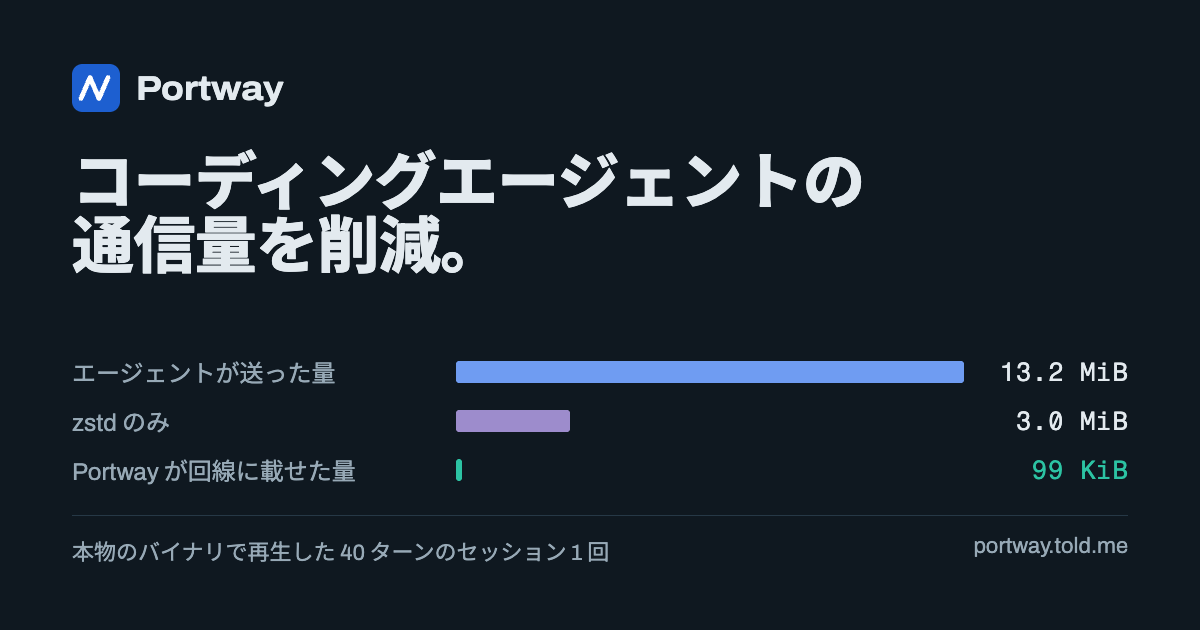
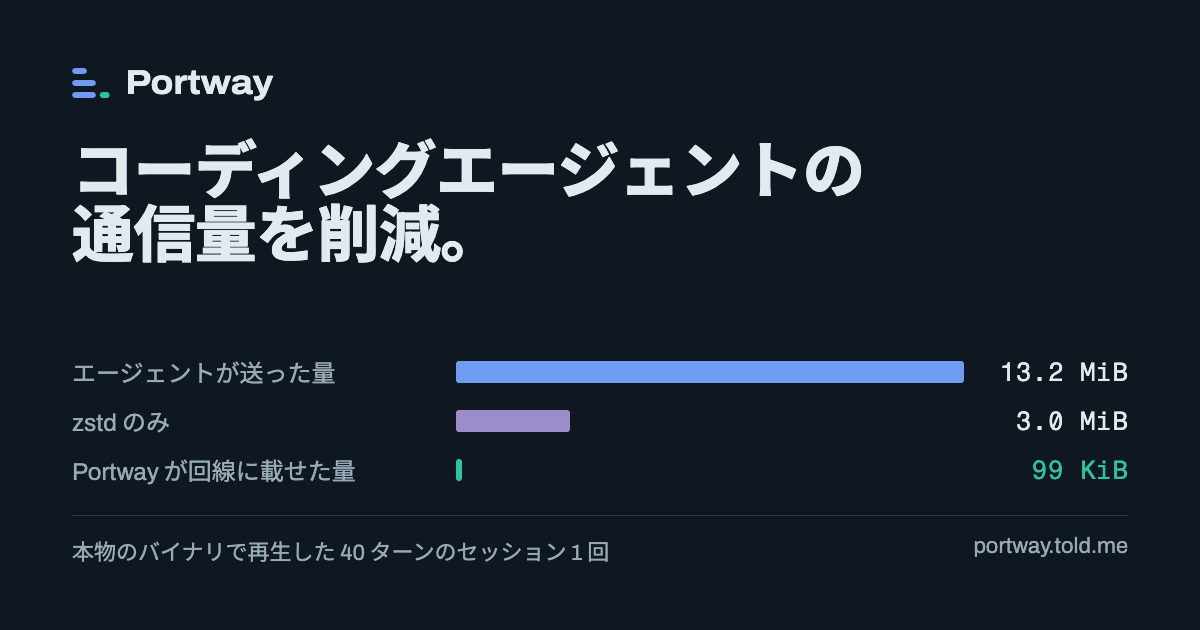
feat(brand): replace the zigzag mark with growing bars
- Draw the mark as three bars that grow turn by turn, the newest with a wire-coloured tip for the only part that crosses
- Redraw both console favicons and the site favicon on the site's ground colour, with the alert dot in the dark theme's red
- Swap the mark into the console header and the site masthead in all four languages and on the 404 page, coloured with the raw and wire tokens
- Update the four social card sources and re-render og.png, og-ko.png, og-ja.png and og-zh.png
- Re-render apple-touch-icon.png, refresh the stylesheet hash and the sitemap dates, and record the change in the changelog

Changed region(s): [[0.0617, 0.2111, 0.74, 0.4524], [0.0617, 0.0905, 0.2467, 0.181]]

diff --git a/scripts/og-card-ko.html b/scripts/og-card-ko.html
@@ -26,7 +26,9 @@
     display: flex; flex-direction: column;
   }
   .brand { display: flex; align-items: center; gap: 16px; font-size: 34px; font-weight: 700; font-stretch: 110%; }
-  .brand svg { width: 48px; height: 48px; }
+  .brand svg { width: 37.5px; height: 30px; }
+  .brand path { fill: none; stroke: var(--raw); stroke-width: 4; stroke-linecap: round; }
+  .brand .delta { stroke: var(--wire); }
   h1 {
     margin: 40px 0 0; font-size: 62px; line-height: 1.04; font-weight: 800;
     font-stretch: 88%; letter-spacing: -0.01em; max-width: 24ch;
@@ -46,7 +48,7 @@
 </head>
 <body>
   <div class="brand">
-    <svg viewBox="0 0 32 32" aria-hidden="true"><rect width="32" height="32" rx="7" fill="#1d5fd0"/><path d="M6 23 L12 9 L18 23 L24 9" fill="none" stroke="#fff" stroke-width="3.2" stroke-linecap="round" stroke-linejoin="round"/></svg>
+    <svg viewBox="3.5 6 25 20" aria-hidden="true"><path d="M5.5 8H11.5M5.5 16H17.5M5.5 24H17.5"/><path class="delta" d="M24 24H26.5"/></svg>
     Portway
   </div>
   <h1><span>코딩 에이전트의</span> <span>네트워크 전송량을</span> <span>줄이세요.</span></h1>

diff --git a/scripts/og-card-ja.html b/scripts/og-card-ja.html
@@ -26,7 +26,9 @@
     display: flex; flex-direction: column;
   }
   .brand { display: flex; align-items: center; gap: 16px; font-size: 34px; font-weight: 700; font-stretch: 110%; }
-  .brand svg { width: 48px; height: 48px; }
+  .brand svg { width: 37.5px; height: 30px; }
+  .brand path { fill: none; stroke: var(--raw); stroke-width: 4; stroke-linecap: round; }
+  .brand .delta { stroke: var(--wire); }
   h1 {
     margin: 40px 0 0; font-size: 62px; line-height: 1.04; font-weight: 800;
     font-stretch: 88%; letter-spacing: -0.01em; max-width: 24ch;
@@ -45,7 +47,7 @@
 </head>
 <body>
   <div class="brand">
-    <svg viewBox="0 0 32 32" aria-hidden="true"><rect width="32" height="32" rx="7" fill="#1d5fd0"/><path d="M6 23 L12 9 L18 23 L24 9" fill="none" stroke="#fff" stroke-width="3.2" stroke-linecap="round" stroke-linejoin="round"/></svg>
+    <svg viewBox="3.5 6 25 20" aria-hidden="true"><path d="M5.5 8H11.5M5.5 16H17.5M5.5 24H17.5"/><path class="delta" d="M24 24H26.5"/></svg>
     Portway
   </div>
   <h1><span>コーディング</span><span>エージェントの</span><span>通信量を削減。</span></h1>

diff --git a/scripts/og-card-zh.html b/scripts/og-card-zh.html
@@ -26,7 +26,9 @@
     display: flex; flex-direction: column;
   }
   .brand { display: flex; align-items: center; gap: 16px; font-size: 34px; font-weight: 700; font-stretch: 110%; }
-  .brand svg { width: 48px; height: 48px; }
+  .brand svg { width: 37.5px; height: 30px; }
+  .brand path { fill: none; stroke: var(--raw); stroke-width: 4; stroke-linecap: round; }
+  .brand .delta { stroke: var(--wire); }
   h1 {
     margin: 40px 0 0; font-size: 62px; line-height: 1.04; font-weight: 800;
     font-stretch: 88%; letter-spacing: -0.01em; max-width: 24ch;
@@ -45,7 +47,7 @@
 </head>
 <body>
   <div class="brand">
-    <svg viewBox="0 0 32 32" aria-hidden="true"><rect width="32" height="32" rx="7" fill="#1d5fd0"/><path d="M6 23 L12 9 L18 23 L24 9" fill="none" stroke="#fff" stroke-width="3.2" stroke-linecap="round" stroke-linejoin="round"/></svg>
+    <svg viewBox="3.5 6 25 20" aria-hidden="true"><path d="M5.5 8H11.5M5.5 16H17.5M5.5 24H17.5"/><path class="delta" d="M24 24H26.5"/></svg>
     Portway
   </div>
   <h1><span>减少编程智能体的</span><span>网络传输量。</span></h1>

diff --git a/scripts/og-card.html b/scripts/og-card.html
@@ -24,7 +24,9 @@
     display: flex; flex-direction: column;
   }
   .brand { display: flex; align-items: center; gap: 16px; font-size: 34px; font-weight: 700; font-stretch: 110%; }
-  .brand svg { width: 48px; height: 48px; }
+  .brand svg { width: 37.5px; height: 30px; }
+  .brand path { fill: none; stroke: var(--raw); stroke-width: 4; stroke-linecap: round; }
+  .brand .delta { stroke: var(--wire); }
   h1 {
     margin: 40px 0 0; font-size: 62px; line-height: 1.04; font-weight: 800;
     font-stretch: 88%; letter-spacing: -0.01em; max-width: 24ch;
@@ -42,7 +44,7 @@
 </head>
 <body>
   <div class="brand">
-    <svg viewBox="0 0 32 32" aria-hidden="true"><rect width="32" height="32" rx="7" fill="#1d5fd0"/><path d="M6 23 L12 9 L18 23 L24 9" fill="none" stroke="#fff" stroke-width="3.2" stroke-linecap="round" stroke-linejoin="round"/></svg>
+    <svg viewBox="3.5 6 25 20" aria-hidden="true"><path d="M5.5 8H11.5M5.5 16H17.5M5.5 24H17.5"/><path class="delta" d="M24 24H26.5"/></svg>
     Portway
   </div>
   <h1>Cut your coding agent’s network traffic.</h1>

diff --git a/site/ja/index.html b/site/ja/index.html
@@ -47,7 +47,7 @@
 <link rel="preconnect" href="https://fonts.googleapis.com">
 <link rel="preconnect" href="https://fonts.gstatic.com" crossorigin>
 <link rel="stylesheet" href="https://fonts.googleapis.com/css2?family=Archivo:wdth,wght@62..125,400..800&family=Fragment+Mono&display=swap">
-<link rel="stylesheet" href="../style.css?v=ff0002b9faa1">
+<link rel="stylesheet" href="../style.css?v=86ffa82a6713">
 <script type="module" src="../main.js?v=b8b9b5530beb"></script>
 <script type="module" src="../install.js?v=be55ca0cf537"></script>
 <script type="module" src="../langmenu.js"></script>
@@ -57,7 +57,7 @@
 
 <header class="masthead">
   <a class="brand" href="../" aria-label="Portway ホーム">
-    <svg viewBox="0 0 32 32" aria-hidden="true"><rect width="32" height="32" rx="7"/><path d="M6 23 L12 9 L18 23 L24 9"/></svg>
+    <svg viewBox="3.5 6 25 20" aria-hidden="true"><path d="M5.5 8H11.5M5.5 16H17.5M5.5 24H17.5"/><path class="delta" d="M24 24H26.5"/></svg>
     <span>Portway</span>
   </a>
   <div class="masthead-end">

diff --git a/site/zh/index.html b/site/zh/index.html
@@ -31,7 +31,7 @@
 <link rel="preconnect" href="https://fonts.googleapis.com">
 <link rel="preconnect" href="https://fonts.gstatic.com" crossorigin>
 <link rel="stylesheet" href="https://fonts.googleapis.com/css2?family=Archivo:wdth,wght@62..125,400..800&family=Fragment+Mono&display=swap">
-<link rel="stylesheet" href="../style.css?v=ff0002b9faa1">
+<link rel="stylesheet" href="../style.css?v=86ffa82a6713">
 <script type="module" src="../main.js?v=b8b9b5530beb"></script>
 <script type="module" src="../install.js?v=be55ca0cf537"></script>
 <script type="module" src="../langmenu.js"></script>
@@ -41,7 +41,7 @@
 
 <header class="masthead">
   <a class="brand" href="../" aria-label="Portway 首页">
-    <svg viewBox="0 0 32 32" aria-hidden="true"><rect width="32" height="32" rx="7"/><path d="M6 23 L12 9 L18 23 L24 9"/></svg>
+    <svg viewBox="3.5 6 25 20" aria-hidden="true"><path d="M5.5 8H11.5M5.5 16H17.5M5.5 24H17.5"/><path class="delta" d="M24 24H26.5"/></svg>
     <span>Portway</span>
   </a>
   <div class="masthead-end">

diff --git a/site/ko/index.html b/site/ko/index.html
@@ -47,7 +47,7 @@
 <link rel="preconnect" href="https://fonts.googleapis.com">
 <link rel="preconnect" href="https://fonts.gstatic.com" crossorigin>
 <link rel="stylesheet" href="https://fonts.googleapis.com/css2?family=Archivo:wdth,wght@62..125,400..800&family=Fragment+Mono&display=swap">
-<link rel="stylesheet" href="../style.css?v=ff0002b9faa1">
+<link rel="stylesheet" href="../style.css?v=86ffa82a6713">
 <script type="module" src="../main.js?v=b8b9b5530beb"></script>
 <script type="module" src="../install.js?v=be55ca0cf537"></script>
 <script type="module" src="../langmenu.js"></script>
@@ -57,7 +57,7 @@
 
 <header class="masthead">
   <a class="brand" href="../" aria-label="Portway 홈">
-    <svg viewBox="0 0 32 32" aria-hidden="true"><rect width="32" height="32" rx="7"/><path d="M6 23 L12 9 L18 23 L24 9"/></svg>
+    <svg viewBox="3.5 6 25 20" aria-hidden="true"><path d="M5.5 8H11.5M5.5 16H17.5M5.5 24H17.5"/><path class="delta" d="M24 24H26.5"/></svg>
     <span>Portway</span>
   </a>
   <div class="masthead-end">

diff --git a/site/index.html b/site/index.html
@@ -46,7 +46,7 @@
 <link rel="preconnect" href="https://fonts.googleapis.com">
 <link rel="preconnect" href="https://fonts.gstatic.com" crossorigin>
 <link rel="stylesheet" href="https://fonts.googleapis.com/css2?family=Archivo:wdth,wght@62..125,400..800&family=Fragment+Mono&display=swap">
-<link rel="stylesheet" href="style.css?v=ff0002b9faa1">
+<link rel="stylesheet" href="style.css?v=86ffa82a6713">
 <script type="module" src="main.js?v=b8b9b5530beb"></script>
 <script type="module" src="install.js?v=be55ca0cf537"></script>
 <script type="module" src="langmenu.js"></script>
@@ -56,7 +56,7 @@
 
 <header class="masthead">
   <a class="brand" href="./" aria-label="Portway home">
-    <svg viewBox="0 0 32 32" aria-hidden="true"><rect width="32" height="32" rx="7"/><path d="M6 23 L12 9 L18 23 L24 9"/></svg>
+    <svg viewBox="3.5 6 25 20" aria-hidden="true"><path d="M5.5 8H11.5M5.5 16H17.5M5.5 24H17.5"/><path class="delta" d="M24 24H26.5"/></svg>
     <span>Portway</span>
   </a>
   <div class="masthead-end">

diff --git a/site/style.css b/site/style.css
@@ -78,9 +78,12 @@ code { font-size: 0.9em; }
   font-variation-settings: "wdth" 80;
   letter-spacing: 0.01em;
 }
-.brand svg { width: 26px; height: 26px; }
-.brand rect { fill: var(--raw); }
-.brand path { fill: none; stroke: var(--ground); stroke-width: 3.2; stroke-linecap: round; stroke-linejoin: round; }
+/* The mark keeps the signal colours' meaning: the blue bars are a conversation
+   growing turn by turn, the teal tip the only part that crosses the wire. Its
+   five equal bands land on whole pixels at this height. */
+.brand svg { width: 18.75px; height: 15px; }
+.brand path { fill: none; stroke: var(--raw); stroke-width: 4; stroke-linecap: round; }
+.brand .delta { stroke: var(--wire); }
 .masthead nav { display: flex; gap: clamp(12px, 3vw, 28px); font-size: 0.95rem; }
 .masthead nav a { text-decoration: none; color: var(--ink-dim); }
 .masthead nav a:hover { color: var(--ink); }

diff --git a/crates/portway/webui/static/css/app.css b/crates/portway/webui/static/css/app.css
@@ -156,7 +156,9 @@ kbd {
   position: sticky; top: 0; z-index: var(--z-sticky);
 }
 .brand { display: flex; align-items: center; gap: 8px; font-weight: 650; font-size: 14px; letter-spacing: -0.01em; }
-.brand .mark { width: 20px; height: 20px; fill: none; stroke: var(--accent); stroke-width: 2.2; stroke-linecap: round; stroke-linejoin: round; }
+/* Raw bars and a wire tip, in the same sense as the .t-raw and .t-wire tones. */
+.brand .mark { width: 15.625px; height: 12.5px; fill: none; stroke: var(--raw); stroke-width: 4; stroke-linecap: round; }
+.brand .mark .delta { stroke: var(--wire); }
 .listen {
   display: flex; align-items: center; gap: 2px;
   padding: 2px 2px 2px 10px; border-radius: 999px;

diff --git a/site/404.html b/site/404.html
@@ -16,7 +16,7 @@
 <body>
 <header class="masthead">
   <a class="brand" href="/" aria-label="Portway home" data-ta="home">
-    <svg viewBox="0 0 32 32" aria-hidden="true"><rect width="32" height="32" rx="7"/><path d="M6 23 L12 9 L18 23 L24 9"/></svg>
+    <svg viewBox="3.5 6 25 20" aria-hidden="true"><path d="M5.5 8H11.5M5.5 16H17.5M5.5 24H17.5"/><path class="delta" d="M24 24H26.5"/></svg>
     <span>Portway</span>
   </a>
   <div class="masthead-end">

diff --git a/crates/portway/webui/static/index.html b/crates/portway/webui/static/index.html
@@ -17,7 +17,7 @@
 
   <header class="topbar">
     <div class="brand">
-      <svg class="mark" viewBox="0 0 16 16" aria-hidden="true"><path d="M2 12 L6 4 L10 12 L14 4" /></svg>
+      <svg class="mark" viewBox="3.5 6 25 20" aria-hidden="true"><path d="M5.5 8H11.5M5.5 16H17.5M5.5 24H17.5" /><path class="delta" d="M24 24H26.5" /></svg>
       <span>portway</span>
     </div>
     <div class="listen">
